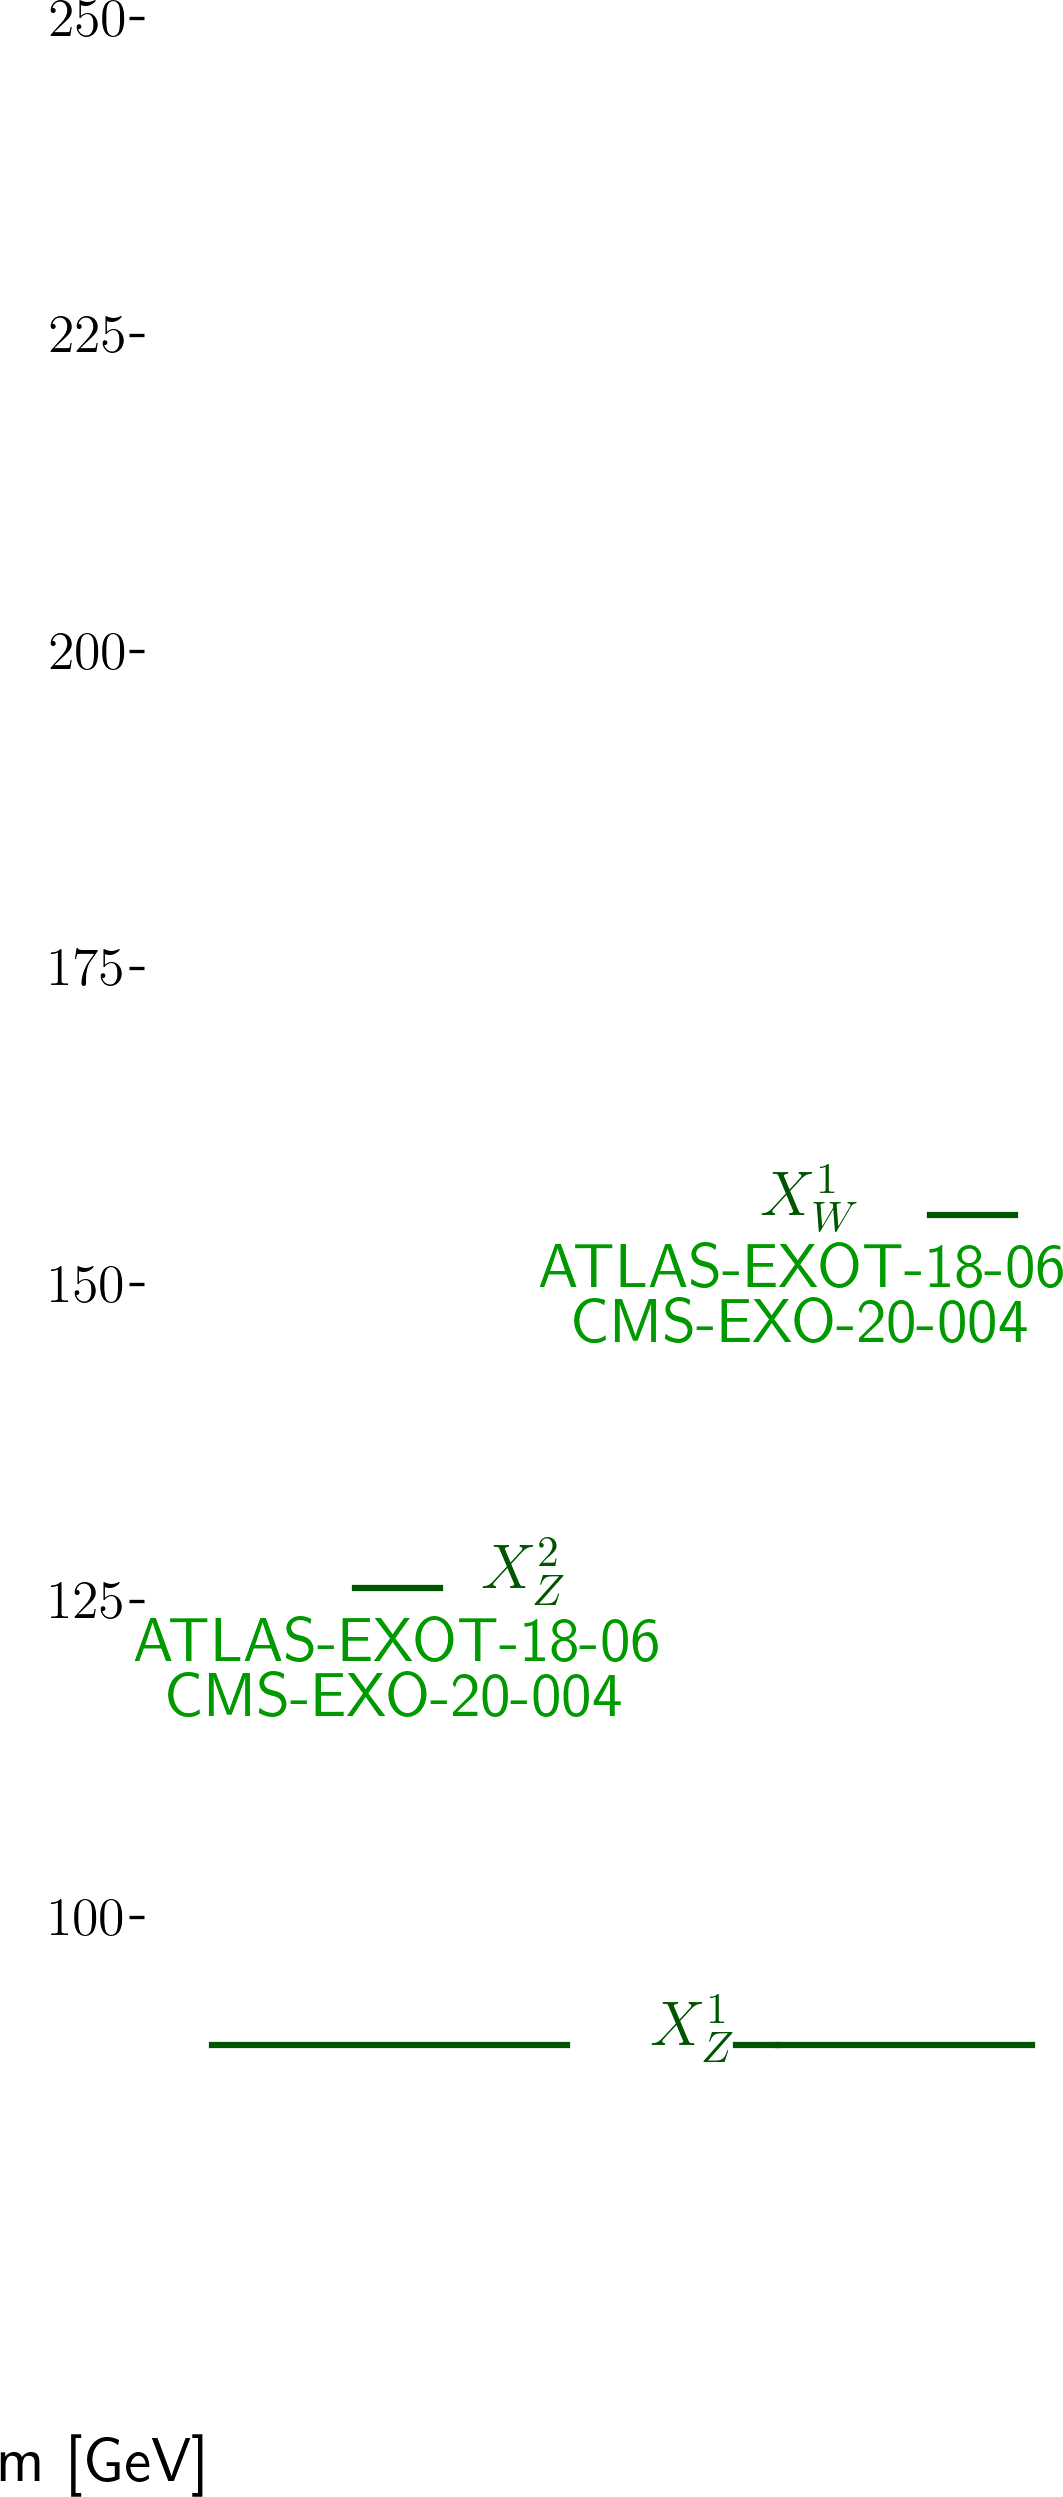
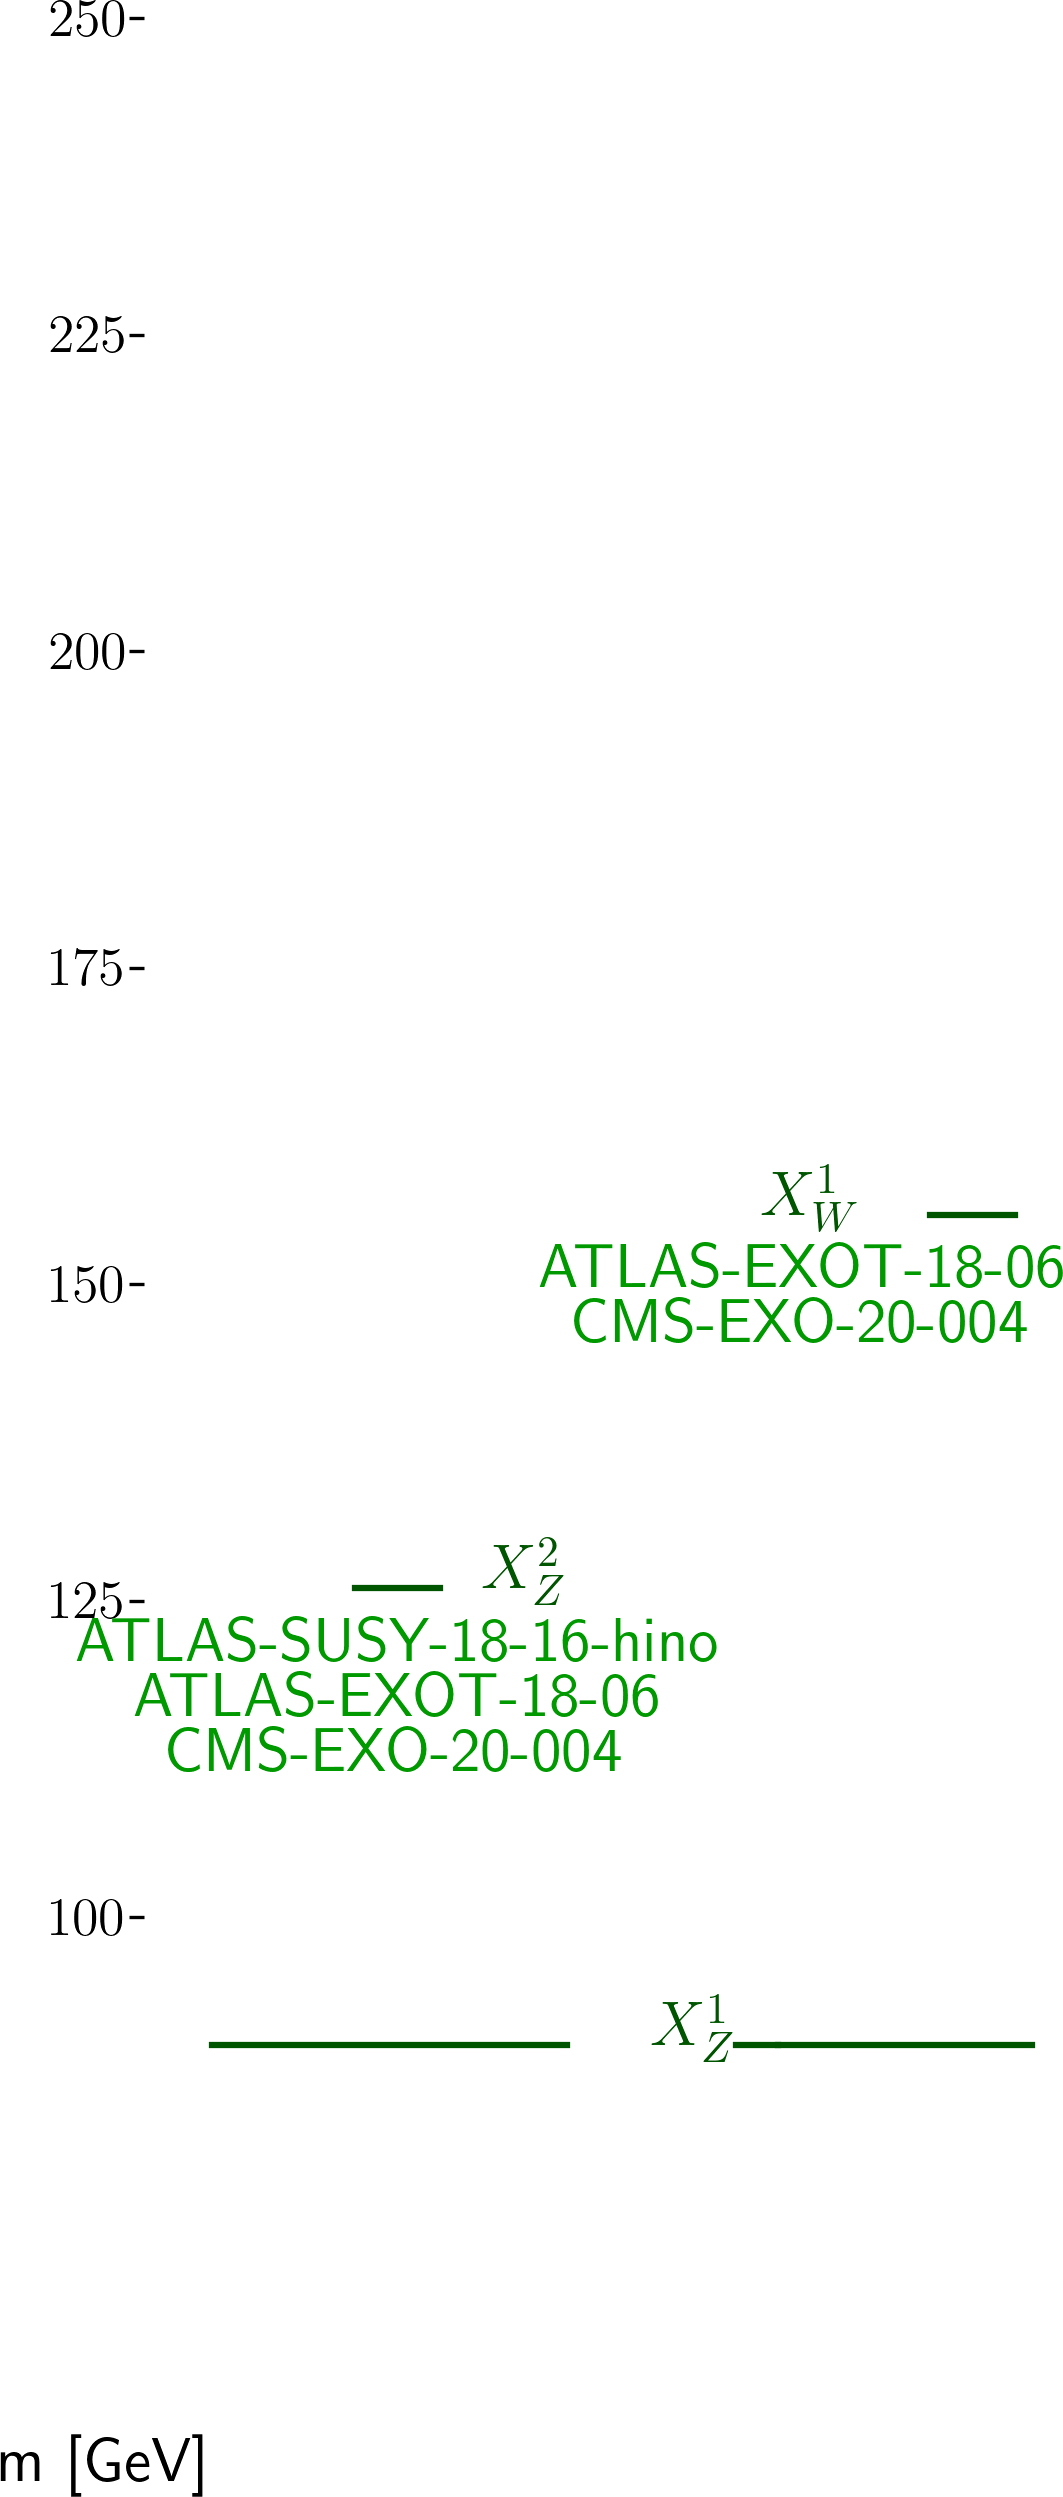
automated update by plotHiscore.py to ewk1_310:     K=22.487 TL=27.49 walkerid=0

Changed region(s): [[0.1242, 0.6247, 0.6519, 0.7185]]

diff --git a/protomodels/ewk1_310/index.html b/protomodels/ewk1_310/index.html
@@ -1,20 +1,22 @@
 <html>
 <body>
 <center>
-<table><td><h1>Current best protomodel: <i>K</i>=22.73, <i>TL</i>=27.23</h1><td><img height=60px src=https://smodels.github.io//protomodels/logos/protomodel_lego.png></table>
+<table><td><h1>Current best protomodel: <i>K</i>=22.49, <i>TL</i>=27.49</h1><td><img height=60px src=https://smodels.github.io//protomodels/logos/protomodel_lego.png></table>
 </center>
-<b><a href=./hiscore.slha>ProtoModel</a> <a href=./pmodel.dict>(dict)</a> produced with <a href=https://smodels.github.io//docs/Validation310>database v3.1.0</a>, combination strategy <a href=./matrix.png>aggressive</a> in walker 0 step 51.</b> <br>
+<b><a href=./hiscore.slha>ProtoModel</a> <a href=./pmodel.dict>(dict)</a> produced with <a href=https://smodels.github.io//docs/Validation310>database v3.1.0</a>, combination strategy <a href=./matrix.png>aggressive</a> in walker 0 step 48.</b> <br>
 <table width=80%>
 <tr><td>
-<br><b>2 predictions available. Highest r values are:</b><br><ul>
-<li><a href=https://atlas.web.cern.ch/Atlas/GROUPS/PHYSICS/PAPERS/EXOT-2018-06/>ATLAS-EXOT-2018-06</a>:EM8:TChiWISRll,TChiZISRqq,TChiISR r=1.30, r<sub>exp</sub>=1.40<br>
-<li><a href=http://cms-results.web.cern.ch/cms-results/public-results/publications/EXO-20-004/>CMS-EXO-20-004</a>:SR_2018_16:TChiWISRll,TChiZISRqq,TChiISR r=0.25, r<sub>exp</sub>=0.40<br>
+<br><b>5 predictions available. Highest r values are:</b><br><ul>
+<li><a href=https://atlas.web.cern.ch/Atlas/GROUPS/PHYSICS/PAPERS/EXOT-2018-06/>ATLAS-EXOT-2018-06</a>:EM8:TChiWISRll,TChiZISRll,TChiZISRqq,TChiISR r=1.31, r<sub>exp</sub>=1.42<br>
+<li><a href=http://cms-results.web.cern.ch/cms-results/public-results/publications/SUS-16-048/index.html>CMS-SUS-16-048</a>:Ewkino_highMET_M_10to20:TChiWZoff r=0.59, r<sub>exp</sub>=0.50<br>
+<li><a href=https://atlas.web.cern.ch/Atlas/GROUPS/PHYSICS/PAPERS/SUSY-2018-16/>ATLAS-SUSY-2018-16-hino</a>:SR_ewk_2l_high:TChiZoff r=0.38, r<sub>exp</sub>=0.36<br>
+<li><a href=http://cms-results.web.cern.ch/cms-results/public-results/publications/EXO-20-004/>CMS-EXO-20-004</a>:SR_2018_16:TChiWISRll,TChiZISRll,TChiZISRqq,TChiISR r=0.25, r<sub>exp</sub>=0.41<br>
 </ul>
-<td><img width=600px src=./texdoc.png?1755341212>
-<br><span style='font-size: smaller; color: darkred;'>Last updated: Sat Aug 16 12:46:52 2025</span>
+<td><img width=600px src=./texdoc.png?1755343648>
+<br><span style='font-size: smaller; color: darkred;'>Last updated: Sat Aug 16 13:27:28 2025</span>
 </table><table style="width:80%">
-<td width=45%><img height=580px src=./ruler.png?1755341212><td width=55%><img height=220px src=./decays.png?1755341212>
-<font size=-3><iframe type="text/html" height="350px" width="100%" frameborder="0" src="./rawnumbers.html?1755341212"></iframe></font>
+<td width=45%><img height=580px src=./ruler.png?1755343648><td width=55%><img height=220px src=./decays.png?1755343648>
+<font size=-3><iframe type="text/html" height="350px" width="100%" frameborder="0" src="./rawnumbers.html?1755343648"></iframe></font>
 </table>
 </body>
 </html>

diff --git a/protomodels/ewk1_310/rawnumbers.html b/protomodels/ewk1_310/rawnumbers.html
@@ -1,8 +1,9 @@
 <table>
 <tr><th>Analysis Name</th><th>Type</th><th>Dataset</th><th>Topos</th><th>Observed</th><th>Expected</th><th>Approx &sigma;</th><th>Particles</th>
 </tr>
-<tr><td><a href=http://cms-results.web.cern.ch/cms-results/public-results/publications/EXO-20-004/>CMS-EXO-20-004</a></td><td>comb</td> <td>-</td><td>TChiISR, TChiWISRll, TChiZISRqq</td><td> 2e+02 fb </td><td> 1e+02 fb</td><td style="text-align:right">4.5 &sigma;</td><td style="text-align:right">X<sup>1</sup><sub>W</sub>, X<sup>1</sup><sub>Z</sub>, X<sup>2</sup><sub>Z</sub></td></tr>
-<tr><td><a href=https://atlas.web.cern.ch/Atlas/GROUPS/PHYSICS/PAPERS/EXOT-2018-06/>ATLAS-EXOT-2018-06</a></td><td>em</td> <td>EM10</td><td>TChiISR, TChiWISRll, TChiZISRqq</td><td>413</td><td>359.00 +/- 10.00</td><td style="text-align:right">2.4 &sigma;</td><td style="text-align:right">X<sup>1</sup><sub>W</sub>, X<sup>1</sup><sub>Z</sub>, X<sup>2</sup><sub>Z</sub></td></tr>
+<tr><td><a href=http://cms-results.web.cern.ch/cms-results/public-results/publications/EXO-20-004/>CMS-EXO-20-004</a></td><td>comb</td> <td>-</td><td>TChiISR, TChiWISRll, TChiZISRll, TChiZISRqq</td><td> 2e+02 fb </td><td> 1e+02 fb</td><td style="text-align:right">4.5 &sigma;</td><td style="text-align:right">X<sup>1</sup><sub>W</sub>, X<sup>1</sup><sub>Z</sub>, X<sup>2</sup><sub>Z</sub></td></tr>
+<tr><td><a href=https://atlas.web.cern.ch/Atlas/GROUPS/PHYSICS/PAPERS/SUSY-2018-16/>ATLAS-SUSY-2018-16-hino</a></td><td>em</td> <td>SR_ewk_2l_med</td><td>TChiZoff</td><td>170</td><td>112.40 +/- 12.60</td><td style="text-align:right">3.4 &sigma;</td><td style="text-align:right">X<sup>1</sup><sub>Z</sub>, X<sup>2</sup><sub>Z</sub></td></tr>
+<tr><td><a href=https://atlas.web.cern.ch/Atlas/GROUPS/PHYSICS/PAPERS/EXOT-2018-06/>ATLAS-EXOT-2018-06</a></td><td>em</td> <td>EM10</td><td>TChiISR, TChiWISRll, TChiZISRll, TChiZISRqq</td><td>413</td><td>359.00 +/- 10.00</td><td style="text-align:right">2.4 &sigma;</td><td style="text-align:right">X<sup>1</sup><sub>W</sub>, X<sup>1</sup><sub>Z</sub>, X<sup>2</sup><sub>Z</sub></td></tr>
 </table>
 <table style='color:grey'>
 <tr><th>Not in Best Combo</th><th>Type</th><th>Dataset</th><th>Topos</th><th>Observed</th><th>Expected</th><th>Approx &sigma;</th><th>Particles</th></table>
